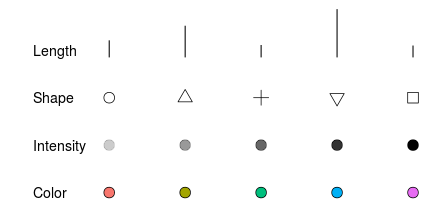
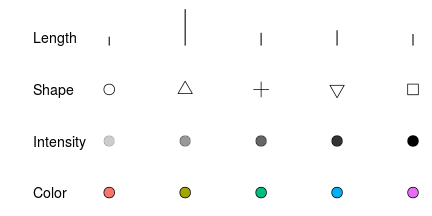
Good gestalt

diff --git a/Presentations/DepartmentalSeminar/DepartmentalSeminar.html b/Presentations/DepartmentalSeminar/DepartmentalSeminar.html
@@ -179,10 +179,17 @@
   </section>
   
   <section>
+    <h2 style="text-align: left"> Gestalt Laws - <span style="font-size:70%;vertical-align:middle;"> "Good Gestalt" </span> </h2>
+<span class='fragment' data-fragment-index=2><img src="figure/goodgestalt-fig-1.png" title="plot of chunk goodgestalt-fig" alt="plot of chunk goodgestalt-fig" width="40%" height="auto" class="plot" /></span>
+
+  <p class="fragment" data-fragment-index=3> Every pattern is seen so that the resulting structure is as simple as possible </p>
+  </section>
+  
+  <section>
     <h2 style="text-align: left"> Gestalt Laws - Closure </h2>
 <span class='fragment' data-fragment-index=2><img src="figure/closure-fig-1.png" title="plot of chunk closure-fig" alt="plot of chunk closure-fig" width="40%" height="auto" class="plot" /></span>
 
-  <p class="fragment" data-fragment-index=3> Every pattern is seen so that the resulting structure is as simple as possible </p>
+  <p class="fragment" data-fragment-index=3> Shapes are perceived as whole even if they are not complete. </p>
   </section>
   
   <section>
@@ -243,6 +250,17 @@
       </ul>
   </section>
 </section>
+
+
+
+<section>
+  <section class="center">
+    <h2> Experiment: What is the hierarchy of gestalt features in statistical plots? </h2>
+  </section>
+  
+  <section>
+    <h2> Gestalt features </h2>
+
 
 
 </div> <!-- slides -->
